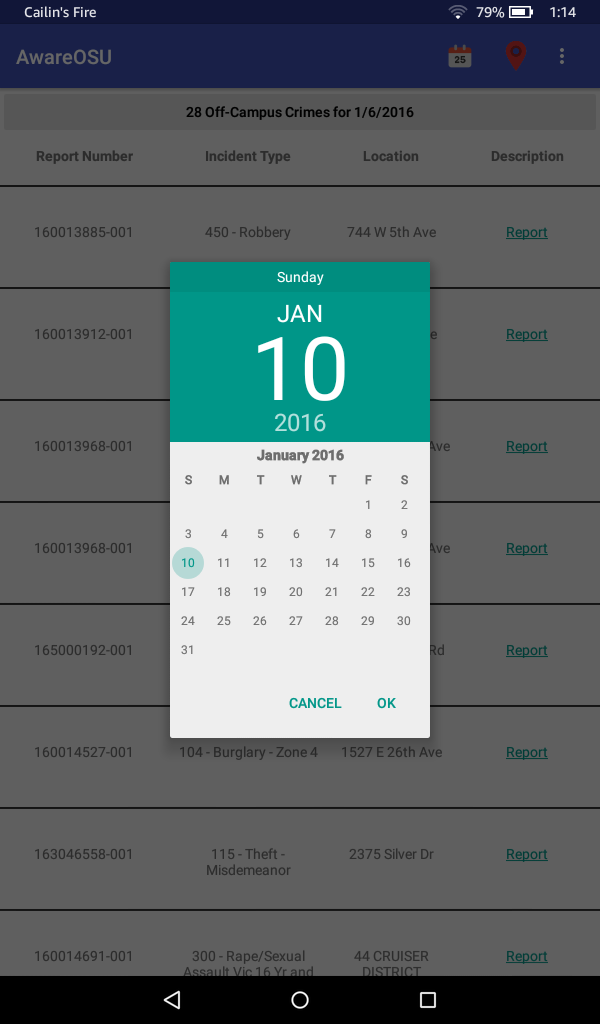
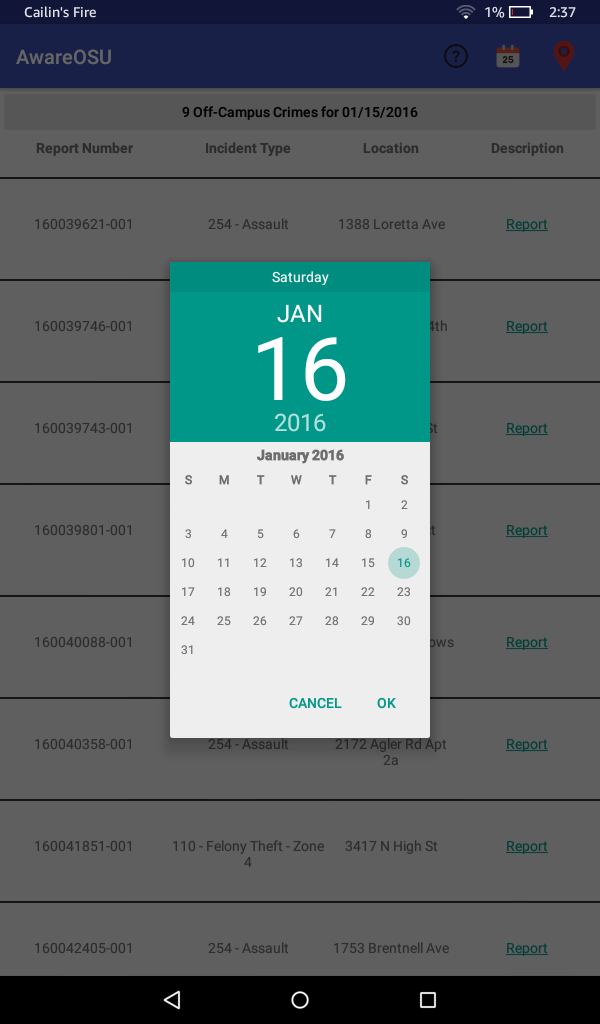
Removed notifications. They were buggy and not working correctly so I removed them. I also added a link to definitions on the AwareOSU github page in the actionbar.

diff --git a/app/src/main/java/awareosu/example/cailin/awareosu/MyActivity.java b/app/src/main/java/awareosu/example/cailin/awareosu/MyActivity.java
@@ -11,6 +11,7 @@ import android.graphics.Color;
 import android.graphics.Typeface;
 import android.location.Address;
 import android.location.Geocoder;
+import android.net.Uri;
 import android.os.Build;
 import android.os.Bundle;
 import android.preference.PreferenceManager;
@@ -54,10 +55,11 @@ public class MyActivity extends AppCompatActivity{
 
     public FragmentManager manager;
     private Geocoder coder;
-    // Declare global variables
 
-    public int mNotificationId = 001;
-    // Set an ID for the daily notification
+    public String[] crimeLocations;
+    public String[] crimeInfo;
+    public double[] latLong;
+    // Declare global variables
 
     /**
      * Create MyActivity.
@@ -69,18 +71,10 @@ public class MyActivity extends AppCompatActivity{
     protected void onCreate(Bundle savedInstanceState) {
         super.onCreate(savedInstanceState);
 
-        SharedPreferences SP = getSharedPreferences("firstRun", 0);
-        // Use this to figure out if app is being run for the first time
-
-        if (SP.getBoolean("my_first_time", true)) {
-            notifyUser();
-            // App is being run for the first time, initially turn notifications on
-
-            SP.edit().putBoolean("my_first_time", false).apply();
-            // Record that app has been run for the first time
-        }
-        // We want user to always be notified of crimes until they selected "no notifications"
-        // in settings page
+        NotificationManager mNotificationManager =
+                (NotificationManager) getSystemService(Context.NOTIFICATION_SERVICE);
+        mNotificationManager.cancelAll();
+        // Cancel all scheduled notifications made by app in past updates.
 
         setContentView(R.layout.activity_my);
         Toolbar toolbar = (Toolbar) findViewById(R.id.toolbar);
@@ -673,17 +667,7 @@ public class MyActivity extends AppCompatActivity{
         // as you specify a parent activity in AndroidManifest.xml.
         int id = item.getItemId();
 
-        // Figure out what in Action bar was clicked, then handle it
-        if (id == R.id.action_settings) {
-            // User selected settings
-
-            Intent i = new Intent(this, UserSettingsActivity.class);
-            startActivityForResult(i, 1);
-            // Start activity
-
-            return true;
-        }
-        else if (id == R.id.pick_date){
+        if (id == R.id.pick_date){
             // User wants to search crime information for a specific day
 
             Toast toast = Toast.makeText(this, "Search can take up to 40 seconds.", Toast.LENGTH_LONG);
@@ -695,7 +679,7 @@ public class MyActivity extends AppCompatActivity{
             // is me cheating
 
             DialogFragment newFragment = new DatePickerFragment();
-            newFragment.show(getFragmentManager(),"Date Picker");
+            newFragment.show(getFragmentManager(), "Date Picker");
             // Call & show DatePicker
 
             return true;
@@ -703,9 +687,9 @@ public class MyActivity extends AppCompatActivity{
         else if (id == R.id.show_map){
             // User wants to view crime information on map
 
-            String[] crimeLocations = getLocations(offCampusCrimes, onCampusCrimes);
-            String crimeInfo[] = getCrimeInfo(offCampusCrimes, onCampusCrimes);
-            double[] latLong = getLocationFromAddress(crimeLocations);
+            crimeLocations = getLocations(offCampusCrimes, onCampusCrimes);
+            crimeInfo = getCrimeInfo(offCampusCrimes, onCampusCrimes);
+            latLong = getLocationFromAddress(crimeLocations);
             // Get array containing lat + long of crimes, needed for map
 
             setContentView(R.layout.activity_map_fragment);
@@ -717,6 +701,13 @@ public class MyActivity extends AppCompatActivity{
 
             return true;
         }
+        else if (id == R.id.definitions)
+        {
+            Uri uri = Uri.parse("http://cailinpitt.github.io/AwareOSU/definitions");
+            Intent intent = new Intent(Intent.ACTION_VIEW, uri);
+            startActivity(intent);
+            // Go to definitions page on GitHub
+        }
 
         return super.onOptionsItemSelected(item);
     }
@@ -726,32 +717,6 @@ public class MyActivity extends AppCompatActivity{
         // Check which request we're responding to
         if (requestCode == 1) {
             // Make sure the request was successful
-            if (resultCode == RESULT_CANCELED) {
-                // Checking if it equals RESULT_CANCELED because the user uses the back button to leave settings
-
-                // User updated settings, now update notification
-
-                SharedPreferences SP = PreferenceManager.getDefaultSharedPreferences(getBaseContext());
-                String notificationPreference = SP.getString("getNotification", "1");
-                // Retrieve settings preferences
-
-                if (!notificationPreference.equals("1"))
-                {
-                    NotificationManager mNotificationManager =
-                            (NotificationManager) getSystemService(Context.NOTIFICATION_SERVICE);
-
-                    // mId allows you to update the notification later on.
-
-                    // Cancels notification.
-                    mNotificationManager.cancel(mNotificationId);
-                }
-                else {
-                    notifyUser();
-                    // User has selected the option to be notified of crimes
-                }
-                // Update notification preference based on what the user chose
-
-            }
         }
     }
 
@@ -1025,34 +990,5 @@ public class MyActivity extends AppCompatActivity{
             j += 2;
         }
         return result;
-    }
-
-    /**
-     * Setup daily notification.
-     */
-    public void notifyUser()
-    {
-
-        AlarmManager alarmManager = (AlarmManager)getSystemService(Context.ALARM_SERVICE);
-        Intent intentAlarm = new Intent(this , AlarmReceiver.class);
-        // Create new alarm & intent
-
-        PendingIntent pendingIntent = PendingIntent.getBroadcast(this, mNotificationId, intentAlarm, PendingIntent.FLAG_UPDATE_CURRENT);
-        // Create new pending intent
-
-        Calendar calendar = Calendar.getInstance();
-        Calendar now = Calendar.getInstance();
-        calendar.set(Calendar.HOUR_OF_DAY, 10);
-        calendar.set(Calendar.MINUTE, 15);
-        calendar.set(Calendar.SECOND, 00);
-        // Set notification date, 10:15 AM
-
-        if(calendar.before(now)){
-            calendar.add(Calendar.DATE, 1);
-        }
-        // If 10:15 AM has passed already, set it for tomorrow
-
-        alarmManager.setRepeating(AlarmManager.RTC_WAKEUP, calendar.getTimeInMillis(), AlarmManager.INTERVAL_DAY, pendingIntent);
-        //Set alarm
     }
 }
